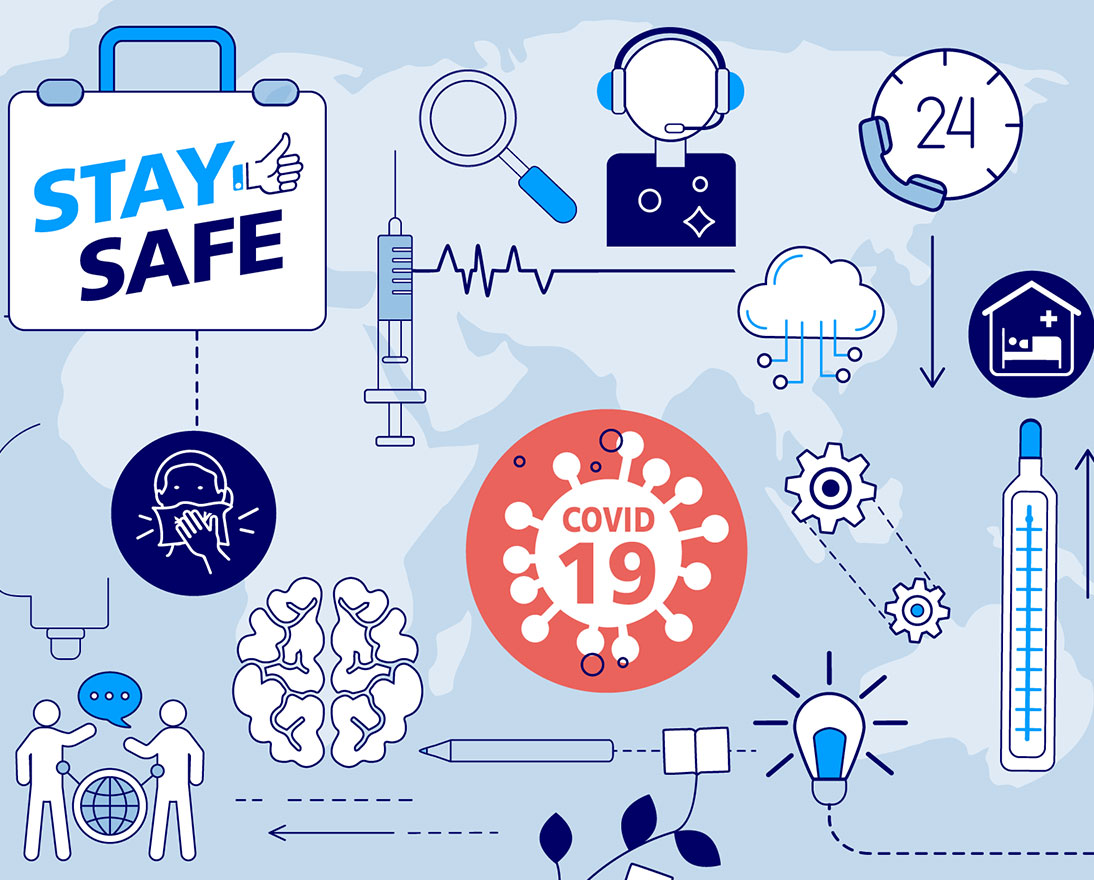
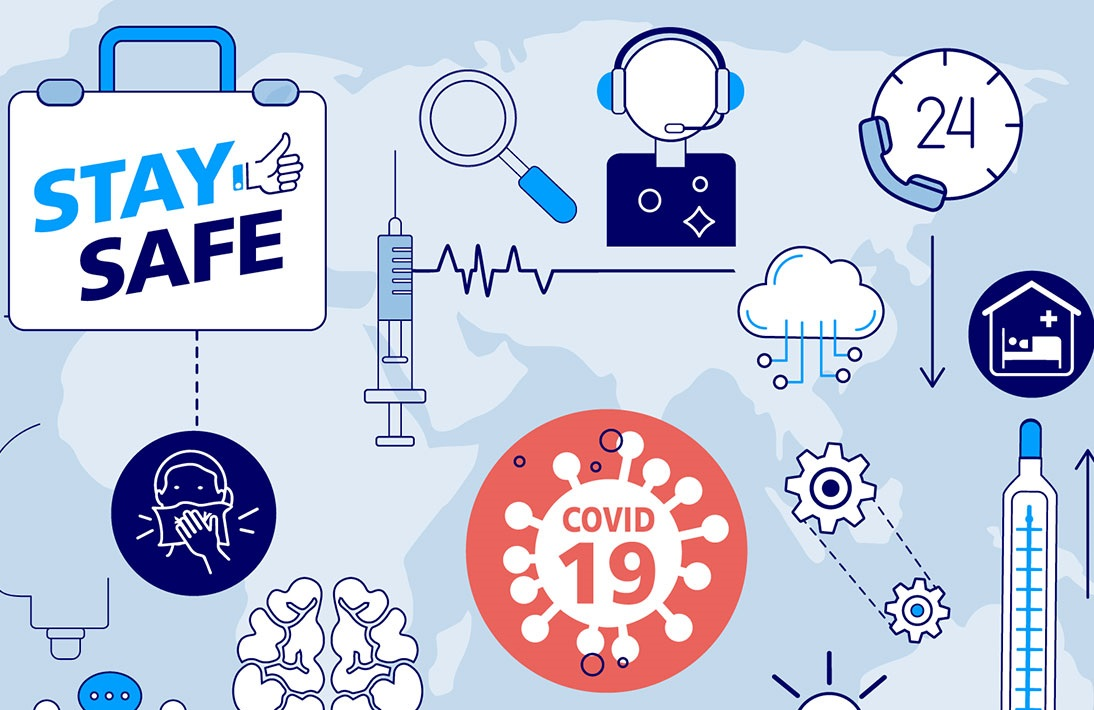
added COVID post

diff --git a/assets/projects/COVID-Survival-Analysis.md b/assets/projects/COVID-Survival-Analysis.md
@@ -159,7 +159,7 @@ countries_of_interest <-
 
 ## 2.1 Scatter Plots
 
-### Cases vs days
+**Cases vs days**
 
 This plot is reasonnable since the the cases should increase as time
 goes by.
@@ -179,7 +179,7 @@ ggplot(data,
 
 ![](/assets/images/COVID-Survival-Analysis_files/figure-gfm/unnamed-chunk-5-1.png)<!-- -->
 
-### Test or trace vs days
+**Test or trace vs days**
 
 ``` r
 ggplot(data,
@@ -197,7 +197,7 @@ ggplot(data,
 
 ![](/assets/images/COVID-Survival-Analysis_files/figure-gfm/unnamed-chunk-6-1.png)<!-- -->
 
-### Life vs days
+**Life vs days**
 
 The plot indicates country with higher life exeptanacy tend to lockdown
 late.
@@ -223,7 +223,7 @@ ggplot(data, mapping = aes(days_to_lockdown, life, color = region)) +
 
 ![](/assets/images/COVID-Survival-Analysis_files/figure-gfm/unnamed-chunk-7-1.png)<!-- -->
 
-### GDP vs days
+**GDP vs days**
 
 Here, high GDP countries are late to response. Maybe they are more
 confident on their ability to deal with the disease or just don’t want
@@ -249,7 +249,7 @@ ggplot(data, mapping = aes(days_to_lockdown, log(GDP), color = region)) +
 
 ## 2.2 Boxplots
 
-### days by region
+**days by region**
 
 Boxplot of regions indicates that Asian countries has a higher median
 days\_to\_lockdown than the rest.
@@ -264,7 +264,7 @@ ggplot(data, aes(y = days_to_lockdown,  fill = region)) +
 
 ## 2.3 Histogram
 
-### Days to lockdown
+**Days to lockdown**
 
 Counts of countries firstly show a broad peak at relatively small
 days\_to\_lockdown, then represent a tail at large days\_to\_lockdown.
@@ -280,7 +280,7 @@ ggplot(data, aes(x = days_to_lockdown)) + geom_histogram(colour = "black", fill 
 
 ![](/assets/images/COVID-Survival-Analysis_files/figure-gfm/unnamed-chunk-10-1.png)<!-- -->
 
-### Population
+**Population**
 
 ``` r
 ggplot(data, aes(x = log(population))) + geom_histogram(binwidth = 1,
